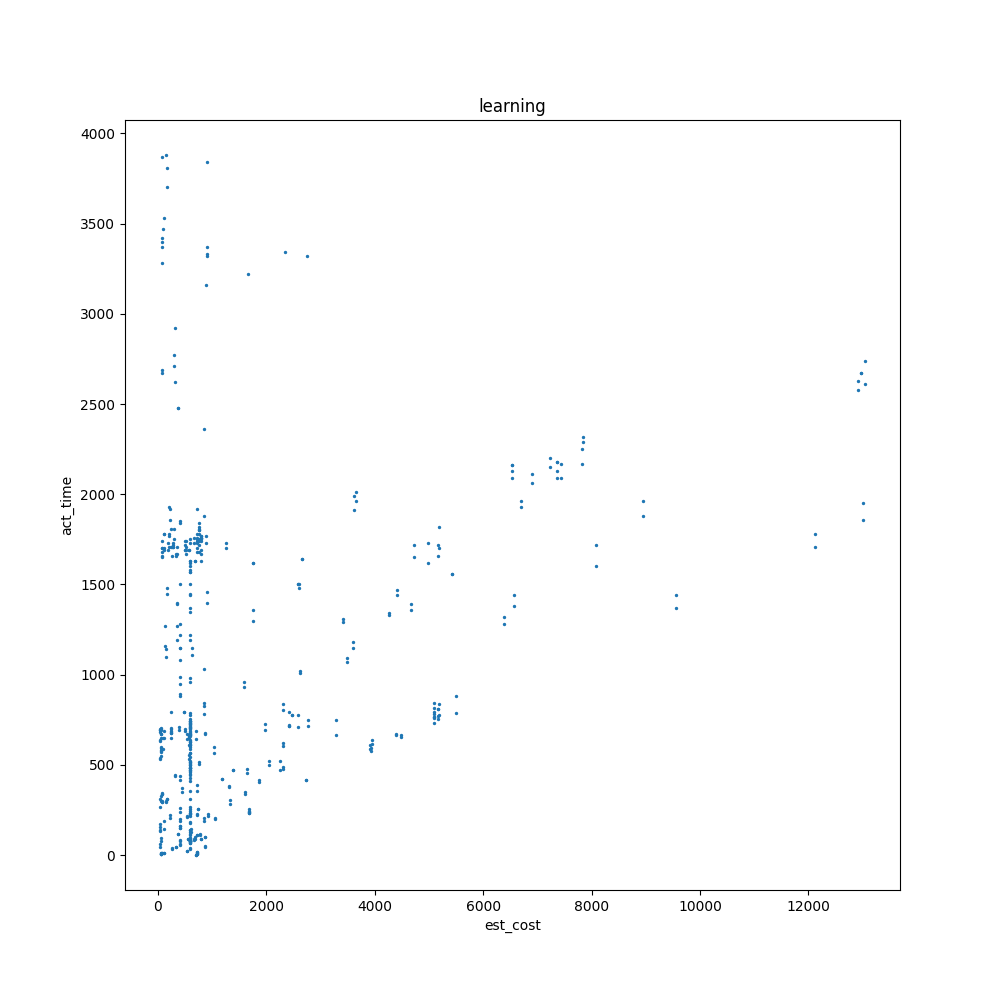
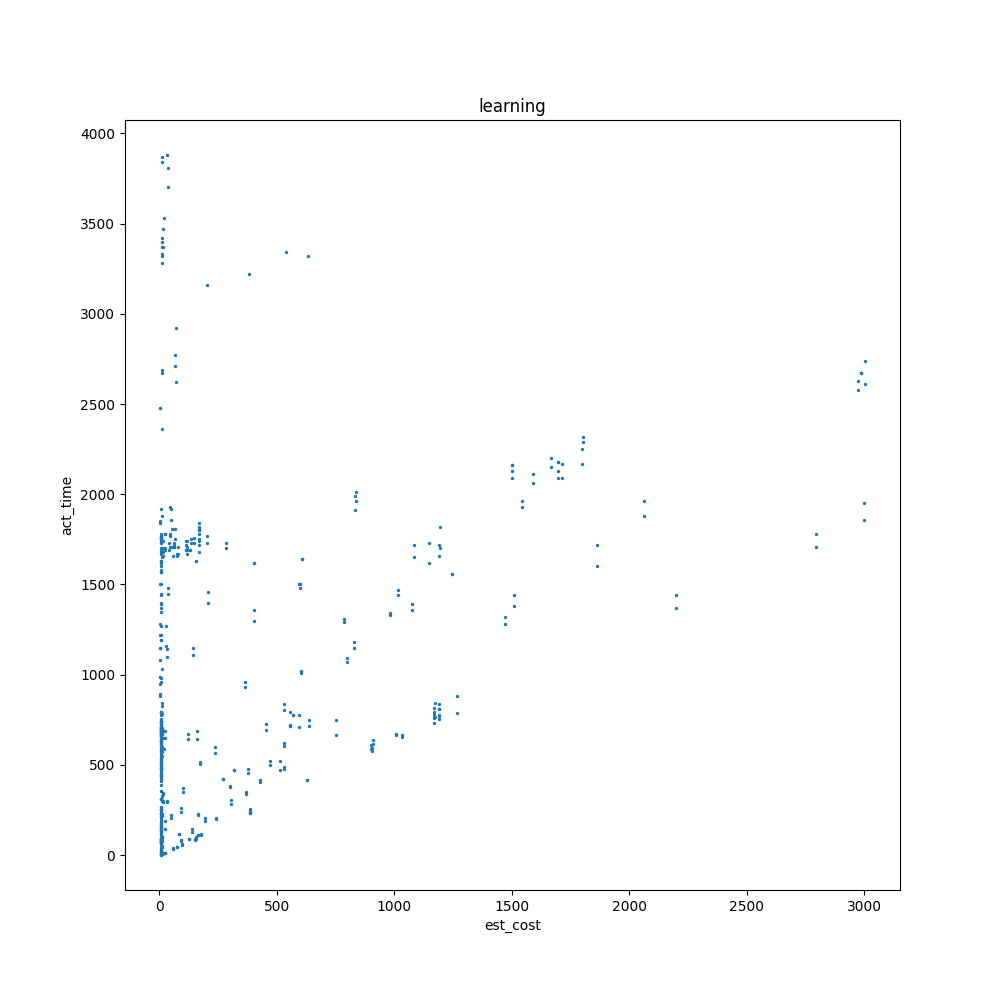
ver 1.0 线性回归

diff --git a/lab4costModel/cost_model.py b/lab4costModel/cost_model.py
@@ -31,15 +31,16 @@ class PlanFeatureCollector:
         self.num_nodes = 0
         self.operator_counts = {op: 0 for op in operators}
         self.operator_est_rows = 0
-        pass
+        # pass
 
     def add_operator(self, op: Operator):
         # YOUR CODE HERE: extract features from op
+        self.operator_est_rows += op.est_row_counts();
         for u in operators:
             if(op.id.find(u) != -1):
                 self.num_nodes += 1
                 self.operator_counts[u] += 1
-                self.operator_est_rows += float(op.est_rows)
+                break
         # pass
 
     def walk_operator_tree(self, op: Operator):
@@ -83,14 +84,10 @@ class YourModel(nn.Module):
     def __init__(self, input_size):
         super().__init__()
         # Define the layers of your model
-        self.fc1 = nn.Linear(12, 64)
-        self.fc2 = nn.Linear(64, 32)
-        self.fc3 = nn.Linear(32, 1)
+        self.fc = nn.Linear(12, 1)
 
     def forward(self, x):
-        x = torch.relu(self.fc1(x))
-        x = torch.relu(self.fc2(x))
-        x = self.fc3(x)
+        x = self.fc(x)
         return x
 
     def init_weights(self):
@@ -125,17 +122,13 @@ def estimate_learning(train_plans, test_plans):
     def loss_fn(est_time, act_time):
         # YOUR CODE HERE: define loss function
         # Calculate the absolute differences between actual and estimated times
-        abs_diff = torch.abs(act_time - est_time)
-        # Sum the absolute differences
-        loss = torch.sum(abs_diff)
-        # Divide by 'n' (number of samples)
-        loss /= len(act_time)
+        loss = nn.MSELoss()(est_time, act_time)
         return loss
         # pass
 
     # YOUR CODE HERE: complete training loop
-    optimizer = torch.optim.Adam(model.parameters(), lr=0.001)
-    num_epoch = 40
+    optimizer = torch.optim.Adam(model.parameters(), lr=0.0005)
+    num_epoch = 60
     for epoch in range(num_epoch):
         print(f"epoch {epoch} start")
         model.train()
@@ -145,14 +138,9 @@ def estimate_learning(train_plans, test_plans):
 
             optimizer.zero_grad()
             estimate_exec_time = model(features)
-            # print(estimate_exec_time) 无实意代码
-            # print("gap")
-            # print(exec_time)
             loss = loss_fn(estimate_exec_time, exec_time)
-            
             loss.backward()
             optimizer.step()
-
             total_loss += loss.item()
         average_loss = total_loss / len(train_loader)
         print(f"Epoch {epoch}: Average Loss: {average_loss}")

diff --git a/lab4costModel/evaluation.py b/lab4costModel/evaluation.py
@@ -26,8 +26,9 @@ if __name__ == '__main__':
         act_times.append(p.exec_time_in_ms())
         tidb_costs.append(p.tidb_est_cost())
 
-    _, _, est_learning_costs, act_learning_times = estimate_learning(train_plans, test_plans)
+    est_training_costs, act_training_costs, est_learning_costs, act_learning_times = estimate_learning(train_plans, test_plans)
 
+    draw_act_est_figure("traing", est_training_costs, act_training_costs, True)
     draw_act_est_figure("tidb", tidb_costs, act_times, True)
     draw_act_est_figure("learning", est_learning_costs, act_learning_times, True)
 
